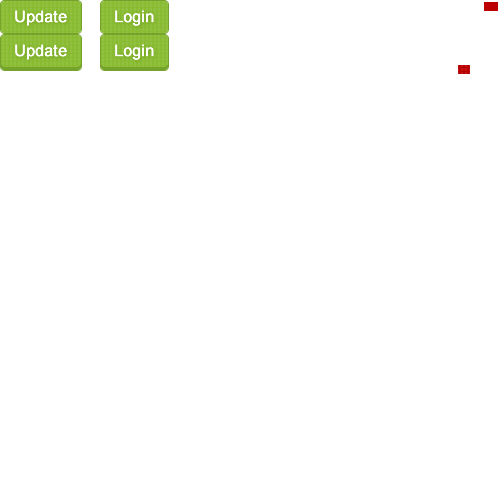
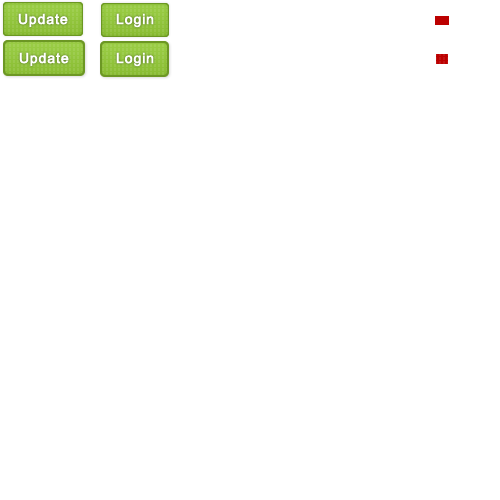
Login page

diff --git a/amon/web/media/css/screen.css b/amon/web/media/css/screen.css
@@ -1,1 +1,1 @@
-html,body,div,span,applet,object,iframe,h1,h2,.right h3,.right h4,h3,.right h4,h4,h5,h6,p,blockquote,pre,a,abbr,acronym,address,big,cite,code,del,dfn,em,img,ins,kbd,q,s,samp,small,strike,strong,sub,sup,tt,var,b,u,i,center,dl,dt,dd,ol,ul,li,fieldset,form,label,legend,table,caption,tbody,tfoot,thead,tr,th,td,article,aside,canvas,details,embed,figure,figcaption,footer,header,hgroup,menu,nav,output,ruby,section,summary,time,mark,audio,video{margin:0;padding:0;border:0;font-size:100%;font:inherit;vertical-align:baseline}body{line-height:1}ol,ul{list-style:none}table{border-collapse:collapse;border-spacing:0}caption,th,td{text-align:left;font-weight:normal;vertical-align:middle}q,blockquote{quotes:none}q:before,q:after,blockquote:before,blockquote:after{content:"";content:none}a img{border:none}article,aside,details,figcaption,figure,footer,header,hgroup,menu,nav,section,summary{display:block}html{height:100%}body{font-size:62.5%;height:100%;font-family:Arial,Helvetica,sans-serif;background:url(../images/sidebar.png) repeat-y}.wrapper{width:100%;height:100%;margin:0 auto}.wrapright{float:left;height:100%;width:100%}.right{margin-left:159px;background-color:#fff;height:100%;min-height:100%;width:820px}.right .breadcrumb{float:left;width:100%}.right .breadcrumb h1{float:left;font-size:3.6em;font-weight:bold;color:#2b3239;padding-top:20px;padding-left:20px;padding-bottom:20px}.right h2,.right h3,.right h4{float:left;font-size:3em;clear:left;margin:25px;margin-bottom:20px;color:#727272}.right h3,.right h4{font-size:2em;color:#858585}.right h4{font-size:1.8em;margin-left:0px;margin-top:15px;margin-bottom:5px}.right table.info{float:left;width:800px;clear:left;margin-left:30px}.right table.info .thead{background:url(../images/table_heading.png) repeat-x}.right table.info .thead td{font-size:1.4em;color:#b4b4b4;padding-top:10px;padding-bottom:15px}.right table.info .thead td.status{padding-left:10px}.right table.info .tbody{margin-top:20px}.right table.info .tbody.odd{background:#f1f1f0}.right table.info .tbody td{margin:10px;padding:8px;padding-left:0px;font-size:1.4em;color:#656565}.right .status{width:10px}.right .status span{width:18px;height:18px;float:left;margin-left:20px;background:url(../images/status_icons.png) no-repeat}.right .status .ok{background-position:0px -36px}.right .status .warning{background-position:0px -18px}.right .overview{width:80px;font-weight:bold}.right .check{width:150px}.left{float:left;width:159px;margin-left:-100%;background:url(../images/sidebar.png) repeat-y;z-index:9999;height:100%;min-height:100%}.left .logo{float:left;width:113px;height:116px;background:url(../images/logo.png) no-repeat;margin-top:18px;margin-left:18px}.left ul{float:left;margin-top:25px}.left ul li{float:left;clear:left;margin-top:2px}.left ul li a.top{outline:none;width:124px;padding:20px;padding-top:9px;padding-bottom:9px;padding-right:10px;float:Left;text-align:left;color:#000;font-size:1.6em;text-decoration:none}.left ul li a.top .unread{float:right;-moz-border-radius:4px;-webkit-border-radius:4px;-o-border-radius:4px;-ms-border-radius:4px;-khtml-border-radius:4px;border-radius:4px;color:#fff;padding-left:6px;padding-right:7px;padding-top:2px;padding-bottom:2px;background:#f1b604;margin-left:3px;margin-top:-2px}.left ul li a.top:hover,.left ul li a.top.active{font-weight:bold;background:#f0f0f0}.left ul ul{float:left}.left ul ul li{float:left}.left ul ul li a{color:red}.chart{float:left;width:800px;height:250px;margin-left:25px;margin-bottom:30px;clear:left}#tooltip{position:absolute;display:none;border:1px solid #fdd;padding:8px;background-color:#fee;opacity:0.8;font-size:1.4em}.legend{float:right;margin-top:38px}.legend ul li{float:left}.legend ul li span.color{width:12px;-moz-border-radius:25px;-webkit-border-radius:25px;-o-border-radius:25px;-ms-border-radius:25px;-khtml-border-radius:25px;border-radius:25px;height:12px;margin-bottom:-1px;margin-right:6px}.legend ul li span.color.one{background:#00adfc}.legend ul li span.color.two{background:#7ab317}.legend ul li span.color.three{background:#8000a9}.legend ul li span{text-align:left;font-size:1.3em;display:inline-block;margin-right:30px;color:#858585}.legend ul li span.last{margin-right:0px}ul.tabs_settings{margin-left:20px;margin-top:10px;float:left}ul.tabs_settings li{float:left}ul.tabs_settings li.separator{float:left;width:20px;height:27px;margin-left:10px;margin-right:10px;background:url(../images/tabs_separator.png)}ul.tabs_settings li a{margin-right:1px;color:#d2d2d2;text-decoration:none;font-size:2.8em}ul.tabs_settings li a:hover,ul.tabs_settings li a.active{color:#747474}ul.tabs{margin-left:20px;margin-top:10px;float:left}ul.tabs li{float:left;margin-right:20px}ul.tabs li .button{background:url(../images/buttons.png);border:0px;text-indent:-3000px;cursor:pointer}ul.tabs li .button.update{width:82px;height:34px}ul.tabs li .button.update:hover{background-position:0px -34px;height:36px}ul.tabs li:last-child{margin-right:0px}ul.tabs li.with_button{margin-top:27px}ul.tabs li label{float:left;font-size:1.6em;margin-bottom:8px}ul.tabs li div.input_background{background:#fafafa;padding:4px;float:left;clear:left;-moz-border-radius:6px;-webkit-border-radius:6px;-o-border-radius:6px;-ms-border-radius:6px;-khtml-border-radius:6px;border-radius:6px}input[type=text]{clear:both;float:left;width:320px;height:25px;padding:4px;font-size:1.6em;border:1px solid #d2d2d2;-moz-border-radius:6px;-webkit-border-radius:6px;-o-border-radius:6px;-ms-border-radius:6px;-khtml-border-radius:6px;border-radius:6px;color:#727272}input[type=text]:focus{border:1px solid #7ab317;-moz-box-shadow:#deecc5 0px 0px 4px;-webkit-box-shadow:#deecc5 0px 0px 4px;-o-box-shadow:#deecc5 0px 0px 4px;box-shadow:#deecc5 0px 0px 4px}.logs_filter{margin-top:25px;float:right}.logs_filter li{float:left;font-size:1.4em;margin-left:15px;line-height:1.6em}.logs_filter li input[type=checkbox]{margin-top:10px;margin-right:5px;float:left}.logs_filter li span{margin-top:5px;float:left}.logs_filter li span.notset{color:#d2d2d2}.logs_filter li span.info{color:#92c142}.logs_filter li span.debug{color:#f1b602}.logs_filter li span.warning{color:red}.logs_filter li input[type=text]{width:150px;font-size:1em}.logs_filter li a.button{border:1px solid #fff;padding-bottom:5px;padding-left:10px;padding-right:10px;color:#7ab317;float:left;outline:none;text-decoration:none;-moz-border-radius:6px;-webkit-border-radius:6px;-o-border-radius:6px;-ms-border-radius:6px;-khtml-border-radius:6px;border-radius:6px}.logs_filter li a.button input[type=checkbox]{display:none}.logs_filter li a.button.notset{border:1px solid #f0f0f0;color:#7e8285}.logs_filter li a.button.notset:hover,.logs_filter li a.button.notset.active{background:#7e8285;color:#fff}.logs_filter li a.button.info{border:1px solid #deecc5;color:#7ab317}.logs_filter li a.button.info:hover,.logs_filter li a.button.info.active{background:#7ab317;color:#fff}.logs_filter li a.button.warning{border:1px solid #eebfbf;color:#bc0000}.logs_filter li a.button.warning:hover,.logs_filter li a.button.warning.active{background:#bc0000;color:#fff}.logs_filter li a.button.debug{border:1px solid #fdcb34;color:#fdcb34}.logs_filter li a.button.debug:hover,.logs_filter li a.button.debug.active{background:#fdcb34;color:#fff}.log_list,.exceptions_list{float:left;margin:20px;width:800px}.log_list li,.exceptions_list li{padding-bottom:40px;float:left;clear:left;width:800px}.log_list li .heading,.exceptions_list li .heading{float:left;width:800px;height:30px;background:#fbfbfb;border:1px solid #f0f0f0;-moz-border-radius:6px;-webkit-border-radius:6px;-o-border-radius:6px;-ms-border-radius:6px;-khtml-border-radius:6px;border-radius:6px}.log_list li span.date,.exceptions_list li span.date{color:#858585;font-size:1.4em;float:left;margin-top:9px;margin-left:8px}.log_list li p,.exceptions_list li p{font-size:1.4em;float:left;clear:left;padding-top:10px}.log_list li p strong,.exceptions_list li p strong{font-weight:bold}.log_list li span.level,.exceptions_list li span.level{float:right;height:14px;width:60px;-moz-border-radius-topright:4px;-webkit-border-top-right-radius:4px;-o-border-top-right-radius:4px;-ms-border-top-right-radius:4px;-khtml-border-top-right-radius:4px;border-top-right-radius:4px;-moz-border-radius-bottomright:4px;-webkit-border-bottom-right-radius:4px;-o-border-bottom-right-radius:4px;-ms-border-bottom-right-radius:4px;-khtml-border-bottom-right-radius:4px;border-bottom-right-radius:4px;color:#fff;font-weight:bold;font-size:1.4em;padding:8px;padding-left:10px;padding-right:10px;text-align:center}.log_list li span.level.notset,.exceptions_list li span.level.notset{background:url(../images/grey_bar.png)}.log_list li span.level.warning,.exceptions_list li span.level.warning{background:url(../images/red_bar.png)}.log_list li span.level.info,.exceptions_list li span.level.info{background:url(../images/green_bar.png)}.log_list li span.level.debug,.exceptions_list li span.level.debug{background:url(../images/yellow_bar.png)}.exceptions_list li{padding-bottom:10px}.exceptions_list div.heading{height:55px;-moz-border-radius-bottomleft:0px;-webkit-border-bottom-left-radius:0px;-o-border-bottom-left-radius:0px;-ms-border-bottom-left-radius:0px;-khtml-border-bottom-left-radius:0px;border-bottom-left-radius:0px;-moz-border-radius-bottomright:0px;-webkit-border-bottom-right-radius:0px;-o-border-bottom-right-radius:0px;-ms-border-bottom-right-radius:0px;-khtml-border-bottom-right-radius:0px;border-bottom-right-radius:0px}.exceptions_list div.heading span.occurrences{float:left;width:45px;height:40px;background:url(../images/exception_counter.png) no-repeat;margin:8px;text-align:center;line-height:3em;font-size:1.4em;font-weight:bold}.exceptions_list div.heading div.exception_info{float:left;width:735px}.exceptions_list div.heading span.exception{float:left;clear:left;font-size:1.4em;padding-left:8px;padding-top:10px}.exceptions_list div.heading a.collapse{width:27px;height:20px;background:url(../images/collapse.png) no-repeat;margin-right:10px;margin-top:-4px;float:right;outline:none}.exceptions_list div.heading a.collapse:hover,.exceptions_list div.heading a.collapse.active{background-position:0px -20px}.exceptions_list div.exception_additional_data{float:left;display:none}.exceptions_list a.show_full_trace{float:right;font-size:1.6em;margin-top:17px;color:#000}.exceptions_list p.backtrace,.exceptions_list p.hidden{padding:7px;padding-right:0px;margin-left:5px;margin-top:2px;padding-bottom:0px}.exceptions_list p.backtrace span,.exceptions_list p.hidden span{float:left;clear:left;width:100%;padding-top:4px;line-height:1.4em;color:#464646}.exceptions_list p.hidden{margin-top:0px;display:none;padding-top:0px}.exceptions_list ul.exception_data{margin-top:1px;float:left}.exceptions_list ul.exception_data li{border:0px}.exceptions_list ul.exception_data li span.label{font-size:1.6em;width:120px;float:left;clear:left;font-weight:bold}.exceptions_list ul.exception_data li span.data{font-size:1.6em;float:left;margin-left:6px}.exceptions_list ul.exception_data ul{float:left;padding-left:10px}.exceptions_list ul.exception_data ul.level-0{padding-left:0px}.exceptions_list span.key{float:left;clear:left;font-size:1.6em;margin-top:5px;margin-bottom:5px}.exceptions_list span.key_inner{float:left;margin-left:8px;padding-top:3px;clear:left;font-size:1.4em;font-weight:bold}.exceptions_list span.value_inner{float:left;margin-left:6px;padding-top:3px;font-size:1.4em}.timestamp{float:left;font-size:1.4em;margin-top:8px;color:#727272}ul.stats_bars{float:left;clear:left;margin-left:25px;margin-bottom:20px}ul.stats_bars li{float:left;clear:left;margin-bottom:15px}ul.stats_bars li.with_labels{margin-top:20px}ul.stats_bars li.with_labels div.container .progress{top:-14px}ul.stats_bars li.with_labels div.container .data{top:-35px}ul.stats_bars li h3,ul.stats_bars li .right h4,.right ul.stats_bars li h4{float:left;width:100px;margin:0px;margin-top:6px;margin-right:20px;text-align:right}ul.stats_bars li div.container{float:left;width:500px;height:30px;background:#fbfbfb;-moz-border-radius:6px;-webkit-border-radius:6px;-o-border-radius:6px;-ms-border-radius:6px;-khtml-border-radius:6px;border-radius:6px;border:1px solid #f0f0f0}ul.stats_bars li div.container.medium{width:245px;margin-right:10px}ul.stats_bars li div.container.medium.last{margin-right:0px}ul.stats_bars li div.container.medium .data{width:245px}ul.stats_bars li div.container.small{width:160px;margin-right:10px}ul.stats_bars li div.container.small.last{margin-right:0px}ul.stats_bars li div.container.small .data{width:160px}ul.stats_bars li div.container .progress{width:100px;display:block;position:relative;top:0px;left:0px;height:28px;background:url(../images/green_bar.png);border:1px solid #75a22b;-moz-border-radius:6px;-webkit-border-radius:6px;-o-border-radius:6px;-ms-border-radius:6px;-khtml-border-radius:6px;border-radius:6px}ul.stats_bars li div.container .progress.red{background:url(../images/red_bar.png);border:1px solid #bc0000}ul.stats_bars li div.container .progress.yellow{background:url(../images/yellow_bar.png);border:1px solid #f1b603}ul.stats_bars li div.container .data{position:relative;width:500px;text-align:center;top:-22px;display:block;font-size:1.4em;font-weight:bold;text-shadow:rgba(255,255,255,0.2) 1px 1px 0,rgba(255,255,255,0.2) 1px 1px 0,rgba(255,255,255,0.2) 1px 1px 0;color:#2b3239}ul.stats_bars li div.container .label{position:relative;top:-20px;left:0px;font-size:1.4em;color:#797979}ul.options_list{float:left;clear:left;margin-left:20px;margin-top:30px}ul.options_list li{float:left;margin-bottom:30px}ul.options_list span{font-size:1.8em;float:left;width:400px;margin-top:10px}ul.options_list a{font-size:1.4em;text-decoration:none;font-weight:bold;padding:10px;padding-left:18px;padding-right:18px;float:left;-moz-border-radius:6px;-webkit-border-radius:6px;-o-border-radius:6px;-ms-border-radius:6px;-khtml-border-radius:6px;border-radius:6px}ul.options_list a.delete{background:#eebfbf;color:#bc0000}ul.options_list a.delete:hover{color:#eebfbf;background:#bc0000}
+html,body,div,span,applet,object,iframe,h1,h2,.right h3,.right h4,h3,.right h4,h4,h5,h6,p,blockquote,pre,a,abbr,acronym,address,big,cite,code,del,dfn,em,img,ins,kbd,q,s,samp,small,strike,strong,sub,sup,tt,var,b,u,i,center,dl,dt,dd,ol,ul,li,fieldset,form,label,legend,table,caption,tbody,tfoot,thead,tr,th,td,article,aside,canvas,details,embed,figure,figcaption,footer,header,hgroup,menu,nav,output,ruby,section,summary,time,mark,audio,video{margin:0;padding:0;border:0;font-size:100%;font:inherit;vertical-align:baseline}body{line-height:1}ol,ul{list-style:none}table{border-collapse:collapse;border-spacing:0}caption,th,td{text-align:left;font-weight:normal;vertical-align:middle}q,blockquote{quotes:none}q:before,q:after,blockquote:before,blockquote:after{content:"";content:none}a img{border:none}article,aside,details,figcaption,figure,footer,header,hgroup,menu,nav,section,summary{display:block}html{height:100%}body{font-size:62.5%;height:100%;font-family:Arial,Helvetica,sans-serif;background:url(../images/sidebar.png) repeat-y}.wrapper{width:100%;height:100%;margin:0 auto}.wrapright{float:left;height:100%;width:100%}.right{margin-left:159px;background-color:#fff;height:100%;min-height:100%;width:820px}.right .breadcrumb{float:left;width:100%}.right .breadcrumb h1{float:left;font-size:3.6em;font-weight:bold;color:#2b3239;padding-top:20px;padding-left:20px;padding-bottom:20px}.right h2,.right h3,.right h4{float:left;font-size:3em;clear:left;margin:25px;margin-bottom:20px;color:#727272}.right h3,.right h4{font-size:2em;color:#858585}.right h4{font-size:1.8em;margin-left:0px;margin-top:15px;margin-bottom:5px}.right table.info{float:left;width:800px;clear:left;margin-left:30px}.right table.info .thead{background:url(../images/table_heading.png) repeat-x}.right table.info .thead td{font-size:1.4em;color:#b4b4b4;padding-top:10px;padding-bottom:15px}.right table.info .thead td.status{padding-left:10px}.right table.info .tbody{margin-top:20px}.right table.info .tbody.odd{background:#f1f1f0}.right table.info .tbody td{margin:10px;padding:8px;padding-left:0px;font-size:1.4em;color:#656565}.right .status{width:10px}.right .status span{width:18px;height:18px;float:left;margin-left:20px;background:url(../images/status_icons.png) no-repeat}.right .status .ok{background-position:0px -36px}.right .status .warning{background-position:0px -18px}.right .overview{width:80px;font-weight:bold}.right .check{width:150px}.left{float:left;width:159px;margin-left:-100%;background:url(../images/sidebar.png) repeat-y;z-index:9999;height:100%;min-height:100%}.left .logo{float:left;width:113px;height:116px;background:url(../images/logo.png) no-repeat;margin-top:18px;margin-left:18px}.left ul{float:left;margin-top:25px}.left ul li{float:left;clear:left;margin-top:2px}.left ul li a.top{outline:none;width:124px;padding:20px;padding-top:9px;padding-bottom:9px;padding-right:10px;float:Left;text-align:left;color:#000;font-size:1.6em;text-decoration:none}.left ul li a.top .unread{float:right;-moz-border-radius:4px;-webkit-border-radius:4px;-o-border-radius:4px;-ms-border-radius:4px;-khtml-border-radius:4px;border-radius:4px;color:#fff;padding-left:6px;padding-right:7px;padding-top:2px;padding-bottom:2px;background:#f1b604;margin-left:3px;margin-top:-2px}.left ul li a.top:hover,.left ul li a.top.active{font-weight:bold;background:#f0f0f0}.left ul ul{float:left}.left ul ul li{float:left}.left ul ul li a{color:red}.chart{float:left;width:800px;height:250px;margin-left:25px;margin-bottom:30px;clear:left}#tooltip{position:absolute;display:none;border:1px solid #fdd;padding:8px;background-color:#fee;opacity:0.8;font-size:1.4em}.legend{float:right;margin-top:38px}.legend ul li{float:left}.legend ul li span.color{width:12px;-moz-border-radius:25px;-webkit-border-radius:25px;-o-border-radius:25px;-ms-border-radius:25px;-khtml-border-radius:25px;border-radius:25px;height:12px;margin-bottom:-1px;margin-right:6px}.legend ul li span.color.one{background:#00adfc}.legend ul li span.color.two{background:#7ab317}.legend ul li span.color.three{background:#8000a9}.legend ul li span{text-align:left;font-size:1.3em;display:inline-block;margin-right:30px;color:#858585}.legend ul li span.last{margin-right:0px}ul.tabs_settings{margin-left:20px;margin-top:10px;float:left}ul.tabs_settings li{float:left}ul.tabs_settings li.separator{float:left;width:20px;height:27px;margin-left:10px;margin-right:10px;background:url(../images/tabs_separator.png)}ul.tabs_settings li a{margin-right:1px;color:#d2d2d2;text-decoration:none;font-size:2.8em}ul.tabs_settings li a:hover,ul.tabs_settings li a.active{color:#747474}ul.tabs{margin-left:20px;margin-top:10px;float:left}ul.tabs li{float:left;margin-right:18px}ul.tabs li .button{background:url(../images/buttons.png);border:0px;text-indent:-3000px;cursor:pointer}ul.tabs li .button.update{width:86px;height:38px}ul.tabs li .button.update:hover{background-position:0px -38px;height:38px}ul.tabs li:last-child{margin-right:0px}ul.tabs li.with_button{margin-top:25px}ul.tabs li label{float:left;font-size:1.6em;margin-bottom:8px}ul.tabs li div.input_background{background:#fafafa;padding:4px;float:left;clear:left;-moz-border-radius:6px;-webkit-border-radius:6px;-o-border-radius:6px;-ms-border-radius:6px;-khtml-border-radius:6px;border-radius:6px}input[type=text]{clear:both;float:left;width:320px;height:25px;padding:4px;font-size:1.6em;border:1px solid #d2d2d2;-moz-border-radius:6px;-webkit-border-radius:6px;-o-border-radius:6px;-ms-border-radius:6px;-khtml-border-radius:6px;border-radius:6px;color:#727272}input[type=text]:focus{border:1px solid #7ab317;-moz-box-shadow:#deecc5 0px 0px 4px;-webkit-box-shadow:#deecc5 0px 0px 4px;-o-box-shadow:#deecc5 0px 0px 4px;box-shadow:#deecc5 0px 0px 4px}.logs_filter{margin-top:25px;float:right}.logs_filter li{float:left;font-size:1.4em;margin-left:15px;line-height:1.6em}.logs_filter li input[type=checkbox]{margin-top:10px;margin-right:5px;float:left}.logs_filter li span{margin-top:5px;float:left}.logs_filter li span.notset{color:#d2d2d2}.logs_filter li span.info{color:#92c142}.logs_filter li span.debug{color:#f1b602}.logs_filter li span.warning{color:red}.logs_filter li input[type=text]{width:150px;font-size:1em}.logs_filter li a.button{border:1px solid #fff;padding-bottom:5px;padding-left:10px;padding-right:10px;color:#7ab317;float:left;outline:none;text-decoration:none;-moz-border-radius:6px;-webkit-border-radius:6px;-o-border-radius:6px;-ms-border-radius:6px;-khtml-border-radius:6px;border-radius:6px}.logs_filter li a.button input[type=checkbox]{display:none}.logs_filter li a.button.notset{border:1px solid #f0f0f0;color:#7e8285}.logs_filter li a.button.notset:hover,.logs_filter li a.button.notset.active{background:#7e8285;color:#fff}.logs_filter li a.button.info{border:1px solid #deecc5;color:#7ab317}.logs_filter li a.button.info:hover,.logs_filter li a.button.info.active{background:#7ab317;color:#fff}.logs_filter li a.button.warning{border:1px solid #eebfbf;color:#bc0000}.logs_filter li a.button.warning:hover,.logs_filter li a.button.warning.active{background:#bc0000;color:#fff}.logs_filter li a.button.debug{border:1px solid #fdcb34;color:#fdcb34}.logs_filter li a.button.debug:hover,.logs_filter li a.button.debug.active{background:#fdcb34;color:#fff}.log_list,.exceptions_list{float:left;margin:20px;width:800px}.log_list li,.exceptions_list li{padding-bottom:40px;float:left;clear:left;width:800px}.log_list li .heading,.exceptions_list li .heading{float:left;width:800px;height:30px;background:#fbfbfb;border:1px solid #f0f0f0;-moz-border-radius:6px;-webkit-border-radius:6px;-o-border-radius:6px;-ms-border-radius:6px;-khtml-border-radius:6px;border-radius:6px}.log_list li span.date,.exceptions_list li span.date{color:#858585;font-size:1.4em;float:left;margin-top:9px;margin-left:8px}.log_list li p,.exceptions_list li p{font-size:1.4em;float:left;clear:left;padding-top:10px}.log_list li p strong,.exceptions_list li p strong{font-weight:bold}.log_list li span.level,.exceptions_list li span.level{float:right;height:14px;width:60px;-moz-border-radius-topright:4px;-webkit-border-top-right-radius:4px;-o-border-top-right-radius:4px;-ms-border-top-right-radius:4px;-khtml-border-top-right-radius:4px;border-top-right-radius:4px;-moz-border-radius-bottomright:4px;-webkit-border-bottom-right-radius:4px;-o-border-bottom-right-radius:4px;-ms-border-bottom-right-radius:4px;-khtml-border-bottom-right-radius:4px;border-bottom-right-radius:4px;color:#fff;font-weight:bold;font-size:1.4em;padding:8px;padding-left:10px;padding-right:10px;text-align:center}.log_list li span.level.notset,.exceptions_list li span.level.notset{background:url(../images/grey_bar.png)}.log_list li span.level.warning,.exceptions_list li span.level.warning{background:url(../images/red_bar.png)}.log_list li span.level.info,.exceptions_list li span.level.info{background:url(../images/green_bar.png)}.log_list li span.level.debug,.exceptions_list li span.level.debug{background:url(../images/yellow_bar.png)}.exceptions_list li{padding-bottom:10px}.exceptions_list div.heading{height:55px;-moz-border-radius-bottomleft:0px;-webkit-border-bottom-left-radius:0px;-o-border-bottom-left-radius:0px;-ms-border-bottom-left-radius:0px;-khtml-border-bottom-left-radius:0px;border-bottom-left-radius:0px;-moz-border-radius-bottomright:0px;-webkit-border-bottom-right-radius:0px;-o-border-bottom-right-radius:0px;-ms-border-bottom-right-radius:0px;-khtml-border-bottom-right-radius:0px;border-bottom-right-radius:0px}.exceptions_list div.heading span.occurrences{float:left;width:45px;height:40px;background:url(../images/exception_counter.png) no-repeat;margin:8px;text-align:center;line-height:3em;font-size:1.4em;font-weight:bold}.exceptions_list div.heading div.exception_info{float:left;width:735px}.exceptions_list div.heading span.exception{float:left;clear:left;font-size:1.4em;padding-left:8px;padding-top:10px}.exceptions_list div.heading a.collapse{width:27px;height:20px;background:url(../images/collapse.png) no-repeat;margin-right:10px;margin-top:-4px;float:right;outline:none}.exceptions_list div.heading a.collapse:hover,.exceptions_list div.heading a.collapse.active{background-position:0px -20px}.exceptions_list div.exception_additional_data{float:left;display:none}.exceptions_list a.show_full_trace{float:right;font-size:1.6em;margin-top:17px;color:#000}.exceptions_list p.backtrace,.exceptions_list p.hidden{padding:7px;padding-right:0px;margin-left:5px;margin-top:2px;padding-bottom:0px}.exceptions_list p.backtrace span,.exceptions_list p.hidden span{float:left;clear:left;width:100%;padding-top:4px;line-height:1.4em;color:#464646}.exceptions_list p.hidden{margin-top:0px;display:none;padding-top:0px}.exceptions_list ul.exception_data{margin-top:1px;float:left}.exceptions_list ul.exception_data li{border:0px}.exceptions_list ul.exception_data li span.label{font-size:1.6em;width:120px;float:left;clear:left;font-weight:bold}.exceptions_list ul.exception_data li span.data{font-size:1.6em;float:left;margin-left:6px}.exceptions_list ul.exception_data ul{float:left;padding-left:10px}.exceptions_list ul.exception_data ul.level-0{padding-left:0px}.exceptions_list span.key{float:left;clear:left;font-size:1.6em;margin-top:5px;margin-bottom:5px}.exceptions_list span.key_inner{float:left;margin-left:8px;padding-top:3px;clear:left;font-size:1.4em;font-weight:bold}.exceptions_list span.value_inner{float:left;margin-left:6px;padding-top:3px;font-size:1.4em}.timestamp{float:left;font-size:1.4em;margin-top:8px;color:#727272}ul.stats_bars{float:left;clear:left;margin-left:25px;margin-bottom:20px}ul.stats_bars li{float:left;clear:left;margin-bottom:15px}ul.stats_bars li.with_labels{margin-top:20px}ul.stats_bars li.with_labels div.container .progress{top:-14px}ul.stats_bars li.with_labels div.container .data{top:-35px}ul.stats_bars li h3,ul.stats_bars li .right h4,.right ul.stats_bars li h4{float:left;width:100px;margin:0px;margin-top:6px;margin-right:20px;text-align:right}ul.stats_bars li div.container{float:left;width:500px;height:30px;background:#fbfbfb;-moz-border-radius:6px;-webkit-border-radius:6px;-o-border-radius:6px;-ms-border-radius:6px;-khtml-border-radius:6px;border-radius:6px;border:1px solid #f0f0f0}ul.stats_bars li div.container.medium{width:245px;margin-right:10px}ul.stats_bars li div.container.medium.last{margin-right:0px}ul.stats_bars li div.container.medium .data{width:245px}ul.stats_bars li div.container.small{width:160px;margin-right:10px}ul.stats_bars li div.container.small.last{margin-right:0px}ul.stats_bars li div.container.small .data{width:160px}ul.stats_bars li div.container .progress{width:100px;display:block;position:relative;top:0px;left:0px;height:28px;background:url(../images/green_bar.png);border:1px solid #75a22b;-moz-border-radius:6px;-webkit-border-radius:6px;-o-border-radius:6px;-ms-border-radius:6px;-khtml-border-radius:6px;border-radius:6px}ul.stats_bars li div.container .progress.red{background:url(../images/red_bar.png);border:1px solid #bc0000}ul.stats_bars li div.container .progress.yellow{background:url(../images/yellow_bar.png);border:1px solid #f1b603}ul.stats_bars li div.container .data{position:relative;width:500px;text-align:center;top:-22px;display:block;font-size:1.4em;font-weight:bold;text-shadow:rgba(255,255,255,0.2) 1px 1px 0,rgba(255,255,255,0.2) 1px 1px 0,rgba(255,255,255,0.2) 1px 1px 0;color:#2b3239}ul.stats_bars li div.container .label{position:relative;top:-20px;left:0px;font-size:1.4em;color:#797979}ul.options_list{float:left;clear:left;margin-left:20px;margin-top:30px}ul.options_list li{float:left;margin-bottom:30px}ul.options_list span{font-size:1.8em;float:left;width:400px;margin-top:10px}ul.options_list a{font-size:1.4em;text-decoration:none;font-weight:bold;padding:10px;padding-left:18px;padding-right:18px;float:left;-moz-border-radius:6px;-webkit-border-radius:6px;-o-border-radius:6px;-ms-border-radius:6px;-khtml-border-radius:6px;border-radius:6px}ul.options_list a.delete{background:#eebfbf;color:#bc0000}ul.options_list a.delete:hover{color:#eebfbf;background:#bc0000}

diff --git a/amon/web/media/css/login.css b/amon/web/media/css/login.css
@@ -1,1 +1,1 @@
-html,body,div,span,applet,object,iframe,h1,h2,h3,h4,h5,h6,p,blockquote,pre,a,abbr,acronym,address,big,cite,code,del,dfn,em,img,ins,kbd,q,s,samp,small,strike,strong,sub,sup,tt,var,b,u,i,center,dl,dt,dd,ol,ul,li,fieldset,form,label,legend,table,caption,tbody,tfoot,thead,tr,th,td,article,aside,canvas,details,embed,figure,figcaption,footer,header,hgroup,menu,nav,output,ruby,section,summary,time,mark,audio,video{margin:0;padding:0;border:0;font-size:100%;font:inherit;vertical-align:baseline}body{line-height:1}ol,ul{list-style:none}table{border-collapse:collapse;border-spacing:0}caption,th,td{text-align:left;font-weight:normal;vertical-align:middle}q,blockquote{quotes:none}q:before,q:after,blockquote:before,blockquote:after{content:"";content:none}a img{border:none}article,aside,details,figcaption,figure,footer,header,hgroup,menu,nav,section,summary{display:block}html{height:100%}body{font-size:62.5%;height:100%;font-family:Arial,Helvetica,sans-serif}
+html,body,div,span,applet,object,iframe,h1,h2,h3,h4,h5,h6,p,blockquote,pre,a,abbr,acronym,address,big,cite,code,del,dfn,em,img,ins,kbd,q,s,samp,small,strike,strong,sub,sup,tt,var,b,u,i,center,dl,dt,dd,ol,ul,li,fieldset,form,label,legend,table,caption,tbody,tfoot,thead,tr,th,td,article,aside,canvas,details,embed,figure,figcaption,footer,header,hgroup,menu,nav,output,ruby,section,summary,time,mark,audio,video{margin:0;padding:0;border:0;font-size:100%;font:inherit;vertical-align:baseline}body{line-height:1}ol,ul{list-style:none}table{border-collapse:collapse;border-spacing:0}caption,th,td{text-align:left;font-weight:normal;vertical-align:middle}q,blockquote{quotes:none}q:before,q:after,blockquote:before,blockquote:after{content:"";content:none}a img{border:none}article,aside,details,figcaption,figure,footer,header,hgroup,menu,nav,section,summary{display:block}html{height:100%}body{font-size:62.5%;height:100%;font-family:Arial,Helvetica,sans-serif}div.center{margin:0 auto;width:360px;height:100px;margin-top:15px}div.center .logo{margin:0 auto;text-align:center;display:block}div.center input[type=text],div.center input[type=password]{width:265px;height:40px;padding-left:45px;border:1px solid #d2d2d2;-moz-border-radius:6px;-webkit-border-radius:6px;-o-border-radius:6px;-ms-border-radius:6px;-khtml-border-radius:6px;border-radius:6px;position:relative}div.center .button{float:right;background:url(../images/buttons.png);border:0px;text-indent:-3000px;cursor:pointer}div.center .button.login{width:70px;height:38px;background-position:-100px 0px}div.center .button.login:hover{background-position:-100px -40px;height:38px}div.center ul{float:left}div.center ul li{float:left;width:316px;clear:left;margin:18px;margin-bottom:5px;margin-top:14px;margin-right:13px}div.login_box{margin-top:15px;background:url(../images/box.png);-moz-border-radius:6px;-webkit-border-radius:6px;-o-border-radius:6px;-ms-border-radius:6px;-khtml-border-radius:6px;border-radius:6px;border:6px solid #f0f0f0;float:left;padding-bottom:10px}div.login_box .background-label{width:41px;height:44px;float:left;margin-bottom:-46px;position:relative;z-index:100}div.login_box .background-label.username{background:url(../images/user.png)}div.login_box .background-label.password{background:url(../images/password.png)}

diff --git a/amon/web/media/sass/login.sass b/amon/web/media/sass/login.sass
@@ -6,4 +6,62 @@ body
   font-size: 62.5%
   height: 100%
   font-family: Arial, Helvetica, sans-serif
+div.center
+  margin: 0 auto
+  width: 360px
+  height: 100px
+  margin-top: 15px
+  .logo
+    margin: 0 auto
+    text-align: center
+    display: block
+  input[type=text], input[type=password] 
+    width: 265px
+    height: 40px
+    padding-left: 45px
+    border: 1px solid #D2D2D2 
+    +border-radius(6px)
+    position: relative
+  .button
+    float: right
+    background: url(../images/buttons.png)
+    border: 0px
+    text-indent: -3000px
+    cursor: pointer
+    &.login
+      width: 70px
+      height: 38px
+      background-position: -100px 0px
+      &:hover
+        background-position: -100px -40px
+        height: 38px
+  ul
+    float: left
+    li
+      float: left
+      width: 316px
+      clear: left
+      margin: 18px
+        bottom: 5px
+        top: 14px
+        right: 13px
+div.login_box
+  margin-top: 15px
+  background: url(../images/box.png)
+  +border-radius(6px)
+  border: 6px solid #F0F0F0 
+  float: left
+  padding-bottom: 10px
+  .background-label
+    width: 41px
+    height: 44px
+    float: left
+    margin-bottom: -46px
+    position: relative
+    z-index: 100
+    &.username
+      background: url(../images/user.png)
+    &.password
+      background: url(../images/password.png)
+
 

diff --git a/amon/web/media/sass/screen.sass b/amon/web/media/sass/screen.sass
@@ -225,22 +225,22 @@ ul.tabs
   float: left
   li
     float: left
-    margin-right: 20px
+    margin-right: 18px
     .button
       background: url(../images/buttons.png)
       border: 0px
       text-indent: -3000px
       cursor: pointer
       &.update
-        width: 82px
-        height: 34px
+        width: 86px
+        height: 38px
         &:hover
-          background-position: 0px -34px
-          height: 36px
+          background-position: 0px -38px
+          height: 38px
     &:last-child
       margin-right: 0px
     &.with_button
-      margin-top: 27px
+      margin-top: 25px
     label
       float: left
       font-size: 1.6em

diff --git a/amon/web/templates/login.html b/amon/web/templates/login.html
@@ -8,6 +8,27 @@
 	<link rel="stylesheet" href="/media/css/login.css" />
 </head>
 <body>
+	<div class="center">
+		<img class='logo' src="/media/images/logo.png" alt="" />
+		<div class="login_box">
+			<ul>
+				<li>
+					<label for="" class='background-label username'></label>
+					<input id="" name="" type="text" />
+				</li>
+				<li>
+					<label for="" class='background-label password'></label>
+					<input id="" name="" type="password" />
+				</li>
+				<li>
+					<input type="submit" value="Login" class='button login' />
+				</li>
+			
+			</ul>
+		
+		</div>
+	
+	</div>
 	
 </body>
 </html>
